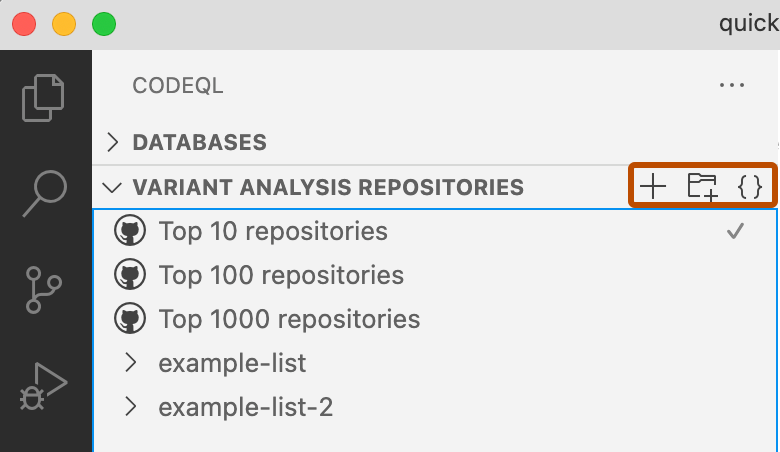
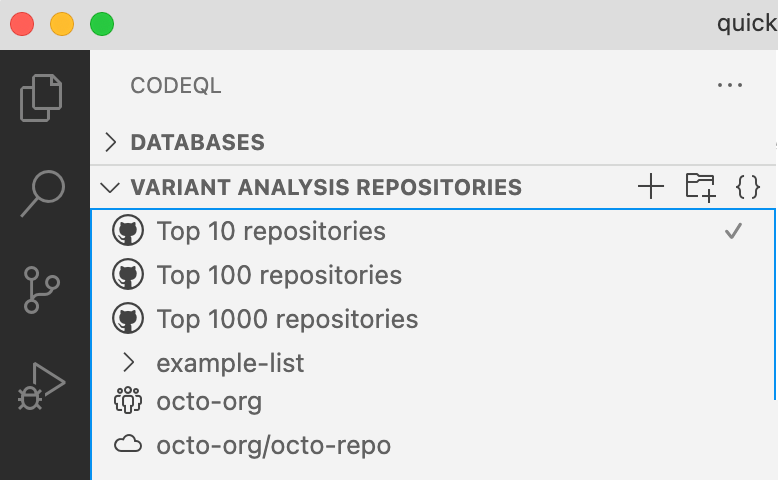
Updates following initial PM review

diff --git a/docs/codeql/codeql-for-visual-studio-code/running-codeql-queries-at-scale-with-mrva.rst b/docs/codeql/codeql-for-visual-studio-code/running-codeql-queries-at-scale-with-mrva.rst
@@ -14,28 +14,23 @@ When you write a query to find variants of a security vulnerability and finish t
 
 The core functionality of the CodeQL extension helps you write queries and run them locally against a CodeQL database. In contrast, variant analysis allows you to send your CodeQL query to GitHub.com to be tested against a list of repositories.
 
-When you run variant analysis against a list of repositories, your query is run against each repository that has a CodeQL database available to analyze. GitHub creates and stores CodeQL databases for thousands of public repositories, including every repository that runs code scanning using CodeQL. If you want to include your repositories in variant analysis, you need to enable code scanning using CodeQL on GitHub.com before adding your repository to a list for analysis. For information about enabling code scanning using CodeQL, see "`Configuring code scanning automatically <https://docs.github.com/en/code-security/code-scanning/automatically-scanning-your-code-for-vulnerabilities-and-errors/configuring-code-scanning-for-a-repository#configuring-code-scanning-automatically>`__."
+When you run variant analysis against a list of repositories, your query is run against each repository that has a CodeQL database available to analyze. GitHub creates and stores CodeQL databases for thousands of public repositories, including every repository that runs code scanning using CodeQL. If you want to run variant analysis on your repositories, you need to enable code scanning using CodeQL on GitHub.com before adding your repository to a list for analysis (either default setup, or advanced setup using the CodeQL action). For information about enabling code scanning using CodeQL, see "`Configuring code scanning automatically <https://docs.github.com/en/code-security/code-scanning/automatically-scanning-your-code-for-vulnerabilities-and-errors/configuring-code-scanning-for-a-repository#configuring-code-scanning-automatically>`__."
 
 .. _controller-repository:
 
 Setting a controller repository for variant analysis
 ----------------------------------------------------
 
-When you run variant analysis, the analysis is run entirely using GitHub Actions. You don't need to create any workflows, but you must specify which GitHub repository the CodeQL extension should use as the "controller repository." Controller repositories can be empty, but they must have at least one commit and the ``GITHUB_TOKEN`` must have "Read and write permissions" when running workflows. For more information, see "`Managing GitHub Actions settings for a repository <https://docs.github.com/en/repositories/managing-your-repositorys-settings-and-features/enabling-features-for-your-repository/managing-github-actions-settings-for-a-repository#setting-the-permissions-of-the-github_token-for-your-repository>`__."
+When you run variant analysis, the analysis is run entirely using GitHub Actions. You don't need to create any workflows, but you must specify which GitHub repository the CodeQL extension should use as the "controller repository." Controller repositories can be empty, but they must have at least one commit. The ``GITHUB_TOKEN`` must also have "Read and write permissions" to run workflows in that repository. For more information, see "`Managing GitHub Actions settings for a repository <https://docs.github.com/en/repositories/managing-your-repositorys-settings-and-features/enabling-features-for-your-repository/managing-github-actions-settings-for-a-repository#setting-the-permissions-of-the-github_token-for-your-repository>`__."
 
 .. pull-quote::
    
    Note
 
    - The controller repository visibility can be "public" if you plan to analyze public repositories. The variant analysis will be free.
-   - The controller repository visibility must be "private" if you need to analyze any private repositories. Any actions minutes used by variant analysis, above the free limit, will be charged to the repository owner. For more information about free minutes and billing, see "`About billing for GitHub Actions <https://docs.github.com/en/billing/managing-billing-for-github-actions/about-billing-for-github-actions>`__." 
+   - The controller repository visibility must be "private" if you need to analyze any private or internal repositories. Any actions minutes used by variant analysis, above the free limit, will be charged to the repository owner. For more information about free minutes and billing, see "`About billing for GitHub Actions <https://docs.github.com/en/billing/managing-billing-for-github-actions/about-billing-for-github-actions>`__." 
 
-TODO: Check on "internal" repositories.
-
-Setting up variant analysis
----------------------------
-
-You can define a controller repository before running your first variant analysis.
+You must define a controller repository before you can run your first variant analysis.
 
 .. image:: ../images/codeql-for-visual-studio-code/controller-repository.png
     :width: 350
@@ -58,18 +53,16 @@ Running a query at scale using variant analysis
 
 #. Select which GitHub repository or repositories you want to run your query against.
 
-   - Select **Top X repositories**.
-   - Click **Add new database**, the **+** icon, to select either a single repository, or all repositories in an organization.
-   - Click **LIST-NAME** to select a custom list that you have created previously.
-   - Click **Add new list**, the folder icon, to create a custom list (see later in this article for details).
-
+   - Click **Top X repositories** to select this list of public repositories for analysis.
+   - Click **LIST-NAME** to select a custom list for analysis (see :ref:`later in this article <custom-lists>` for details).
+   - Click **Add new database**, the **+** icon, to add a repository or an organization to the panel, then click to select it for analysis.
         .. image:: ../images/codeql-for-visual-studio-code/variant-analysis-repo-lists.png
             :width: 350
-            :alt: Screenshot of the CodeQL extension in Visual Studio Code. The "Variant Analysis Repositories" section is expanded and the header buttons are highlighted with a dark orange outline. The "Top 10 repositories" item has a checkmark to show that it is currently selected.
+            :alt: Screenshot of the CodeQL extension in Visual Studio Code. The "Variant Analysis Repositories" section is expanded. The "Top 10 repositories" item has a checkmark to show that it is currently selected. Examples of a custom list, "example-list", a full organization, "octo-org", and a single repository, "octo-org/octo-repo", are shown in the list of repositories available for variant analysis.
 
 #. Open the query you want to run, right-click in the query file, and select **CodeQL: Run Variant Analysis** to start variant analysis.
 
-The CodeQL extension builds a CodeQL pack with your library and any library dependencies. The CodeQL pack and your selected repository list are posted to an API endpoint on GitHub.com which triggers a GitHub Actions dynamic workflow in your controller repository. The workflow spins up multiple parallel jobs to execute the CodeQL query against the repositories in the list, optimizing query execution. As each repository is analyzed, the results are processed and displayed in a variant analysis results view in Visual Studio Code.
+The CodeQL extension builds a CodeQL pack with your library and any library dependencies. The CodeQL pack and your selected repository list are posted to an API endpoint on GitHub.com which triggers a GitHub Actions dynamic workflow in your controller repository. The workflow spins up multiple parallel jobs to execute the CodeQL query against the repositories in the list, optimizing query execution. As each repository is analyzed, the results are processed and displayed in a Variant Analysis Results view in Visual Studio Code.
 
 .. pull-quote::
 
@@ -93,7 +86,7 @@ For each repository, you can see:
 - Visibility of the repository
 - Whether analysis is still running (black, moving circle) or finished (green checkmark)
 - Number of stars the repository has on GitHub
-- How long ago the CodeQL database that was analyzed was created
+- When the repository was last updated
 
 To see the results for a repository:
 
@@ -107,23 +100,25 @@ To see the results for a repository:
 Exporting your results
 ----------------------
 
-You can export your results for further analysis or to discuss them with collaborators. In the results view, click **Export results** to export the results to a secret gist on GitHub.com or to a markdown file.
+You can export your results for further analysis or to discuss them with collaborators. In the results view, click **Export results** to export the results to a secret gist on GitHub.com or to a markdown file in your workspace.
+
+.. _custom-lists:
 
 Creating custom lists of repositories
----------------------------------------
+-------------------------------------
 
-After you have defined a controller repository, the Variant analysis repositories panel shows the lists of repositories that you can select for variant analysis. You can use the options in the panel header to select a specific repository or organization for variant analysis, and to create and manage custom lists of repositories for variant analysis.
+After you have defined a controller repository, the Variant Analysis Repositories panel shows the lists of repositories that you can select for variant analysis. You can use the options in the panel header to add a specific repository or organization to the panel, and to create and manage custom lists of repositories for variant analysis.
 
 .. pull-quote::
 
     Note
 
-    CodeQL analysis always requires a CodeQL database to run queries against. When you run variant analysis against a list of repositories, your query will only be executed against the repositories that currently have a CodeQL database available to download.  So the best way to make a repository available for variant analysis is to enable code scanning with CodeQL.
+    CodeQL analysis always requires a CodeQL database to run queries against. When you run variant analysis against a list of repositories, your query will only be executed against the repositories that currently have a CodeQL database available to download.  So the best way to make a repository available for variant analysis is to enable code scanning with CodeQL. For information about enabling code scanning using CodeQL, see "`Configuring code scanning automatically <https://docs.github.com/en/code-security/code-scanning/automatically-scanning-your-code-for-vulnerabilities-and-errors/configuring-code-scanning-for-a-repository#configuring-code-scanning-automatically>`__."
 
 Selecting a single GitHub repository or organization for analysis
 ~~~~~~~~~~~~~~~~~~~~~~~~~~~~~~~~~~~~~~~~~~~~~~~~~~~~~~~~~~~~~~~~~
 
-#. In the Variant analysis repositories panel, click the **+**, add new database, icon. 
+#. In the Variant Analysis Repositories panel, click the **+**, add new database, icon. 
 
 #. From the dropdown menu, click **From a GitHub repository** or **All repositories of GitHub org or owner**.
 
@@ -136,7 +131,7 @@ Selecting a single GitHub repository or organization for analysis
 Creating a custom list of repositories
 ~~~~~~~~~~~~~~~~~~~~~~~~~~~~~~~~~~~~~~
 
-#. In the Variant analysis repositories panel, click the |add-list| icon.
+#. In the Variant Analysis Repositories panel, click the |add-list| icon.
 
 #. Type a name for the new list and press **Enter**.
 
@@ -144,9 +139,9 @@ Creating a custom list of repositories
 
 You can manage and edit your custom lists by right-clicking on either the list name, or a repository name within the list, and selecting an option from the context menu.
 
-The custom lists are stored in your workspace in a ``databases.json`` file. If you want to edit this file directly, you can open by clicking **{ }** in the panel header. 
+The custom lists are stored in your workspace in a ``databases.json`` file. If you want to edit this file directly, you can open it by clicking **{ }** in the panel header. 
 
-For example, if you want to continue analyzing a set of repositories that had results for your query, click **Copy repository list** in the Variant analysis results view to add a list of the repositories that have results for your query to the clipboard as JSON. For example:
+For example, if you want to continue analyzing a set of repositories that had results for your query, click **Copy repository list** in the Variant Analysis Results view to add a list of only the repositories that have results to the clipboard as JSON. For example:
 
 .. code-block:: json
 
@@ -157,7 +152,7 @@ For example, if you want to continue analyzing a set of repositories that had re
         ]
     }
 
-You can then insert the ``new-repo-list`` of repositories into your list of custom repository lists for easy access in the Variant analysis repositories panel.
+You can then insert the ``new-repo-list`` of repositories into your list of custom repository lists for easy access in the Variant Analysis Repositories panel.
 
 Troubleshooting variant analysis
 --------------------------------
